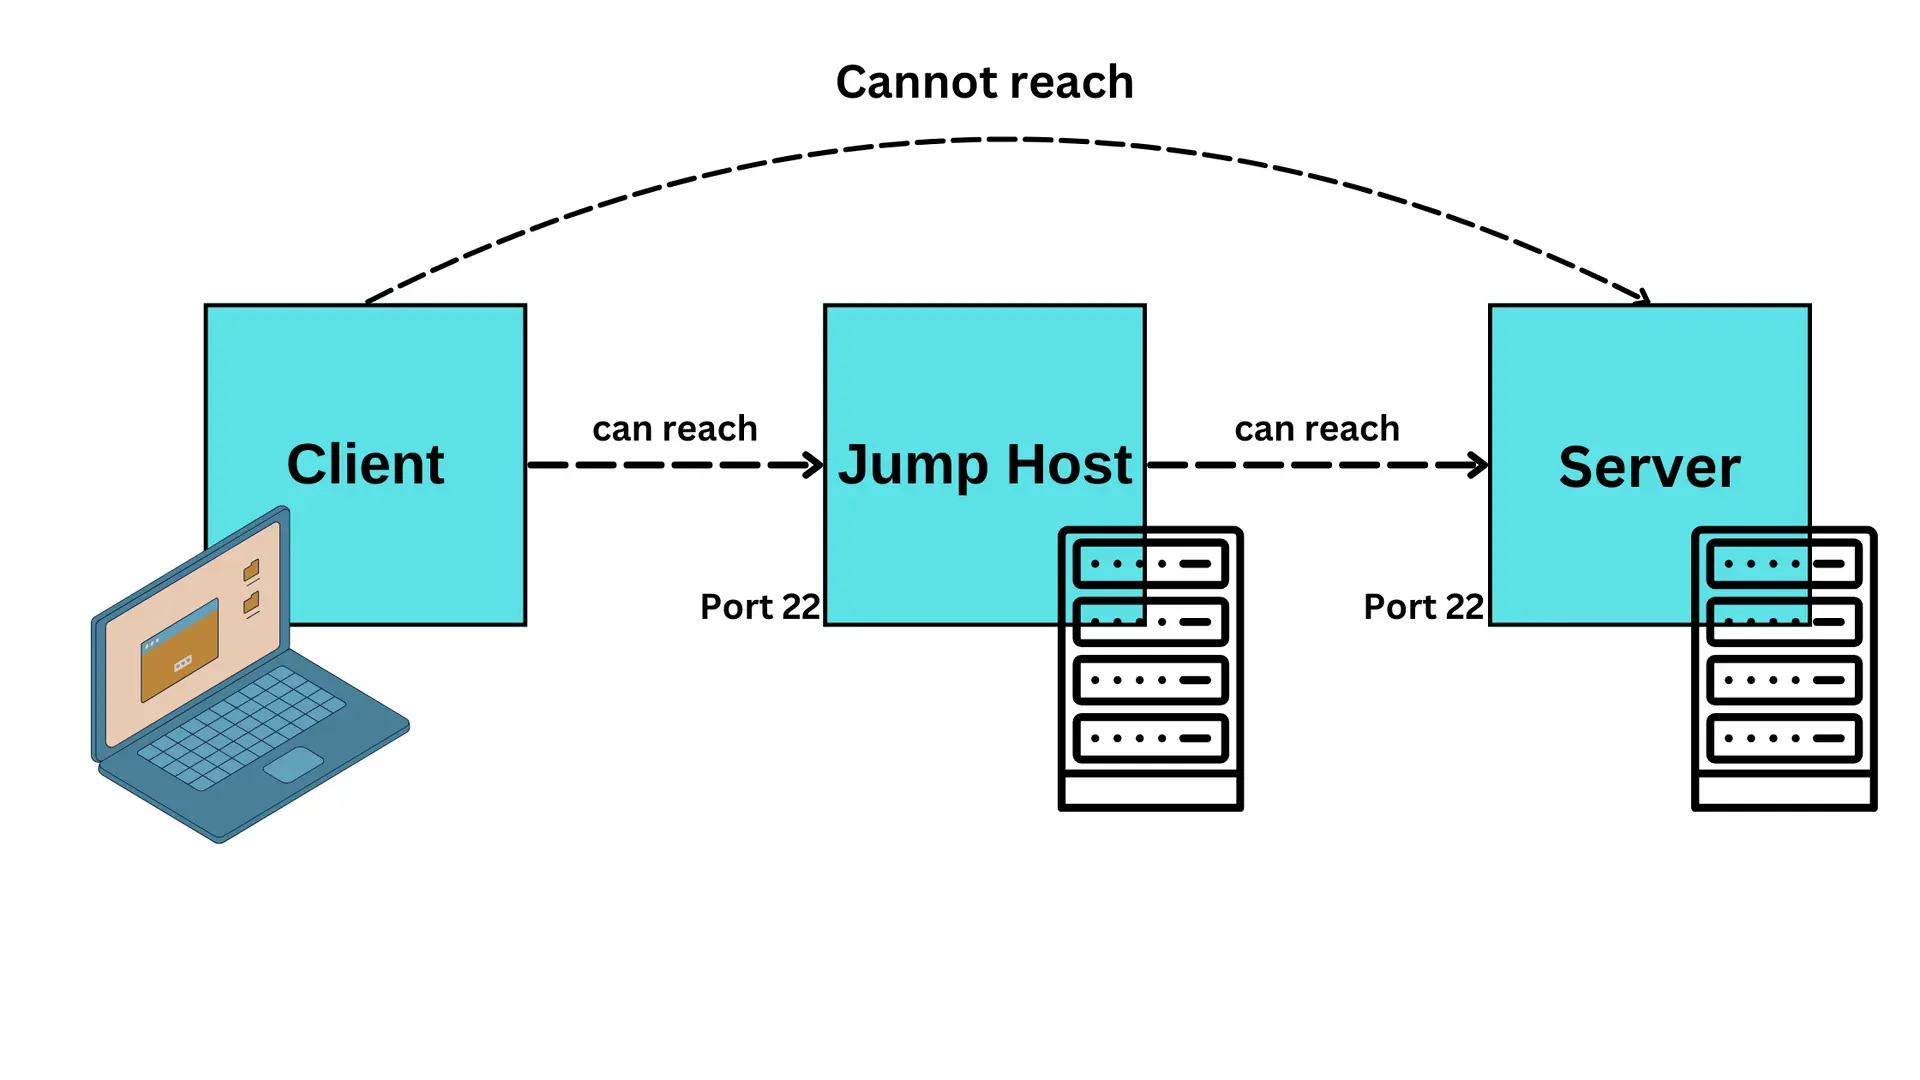
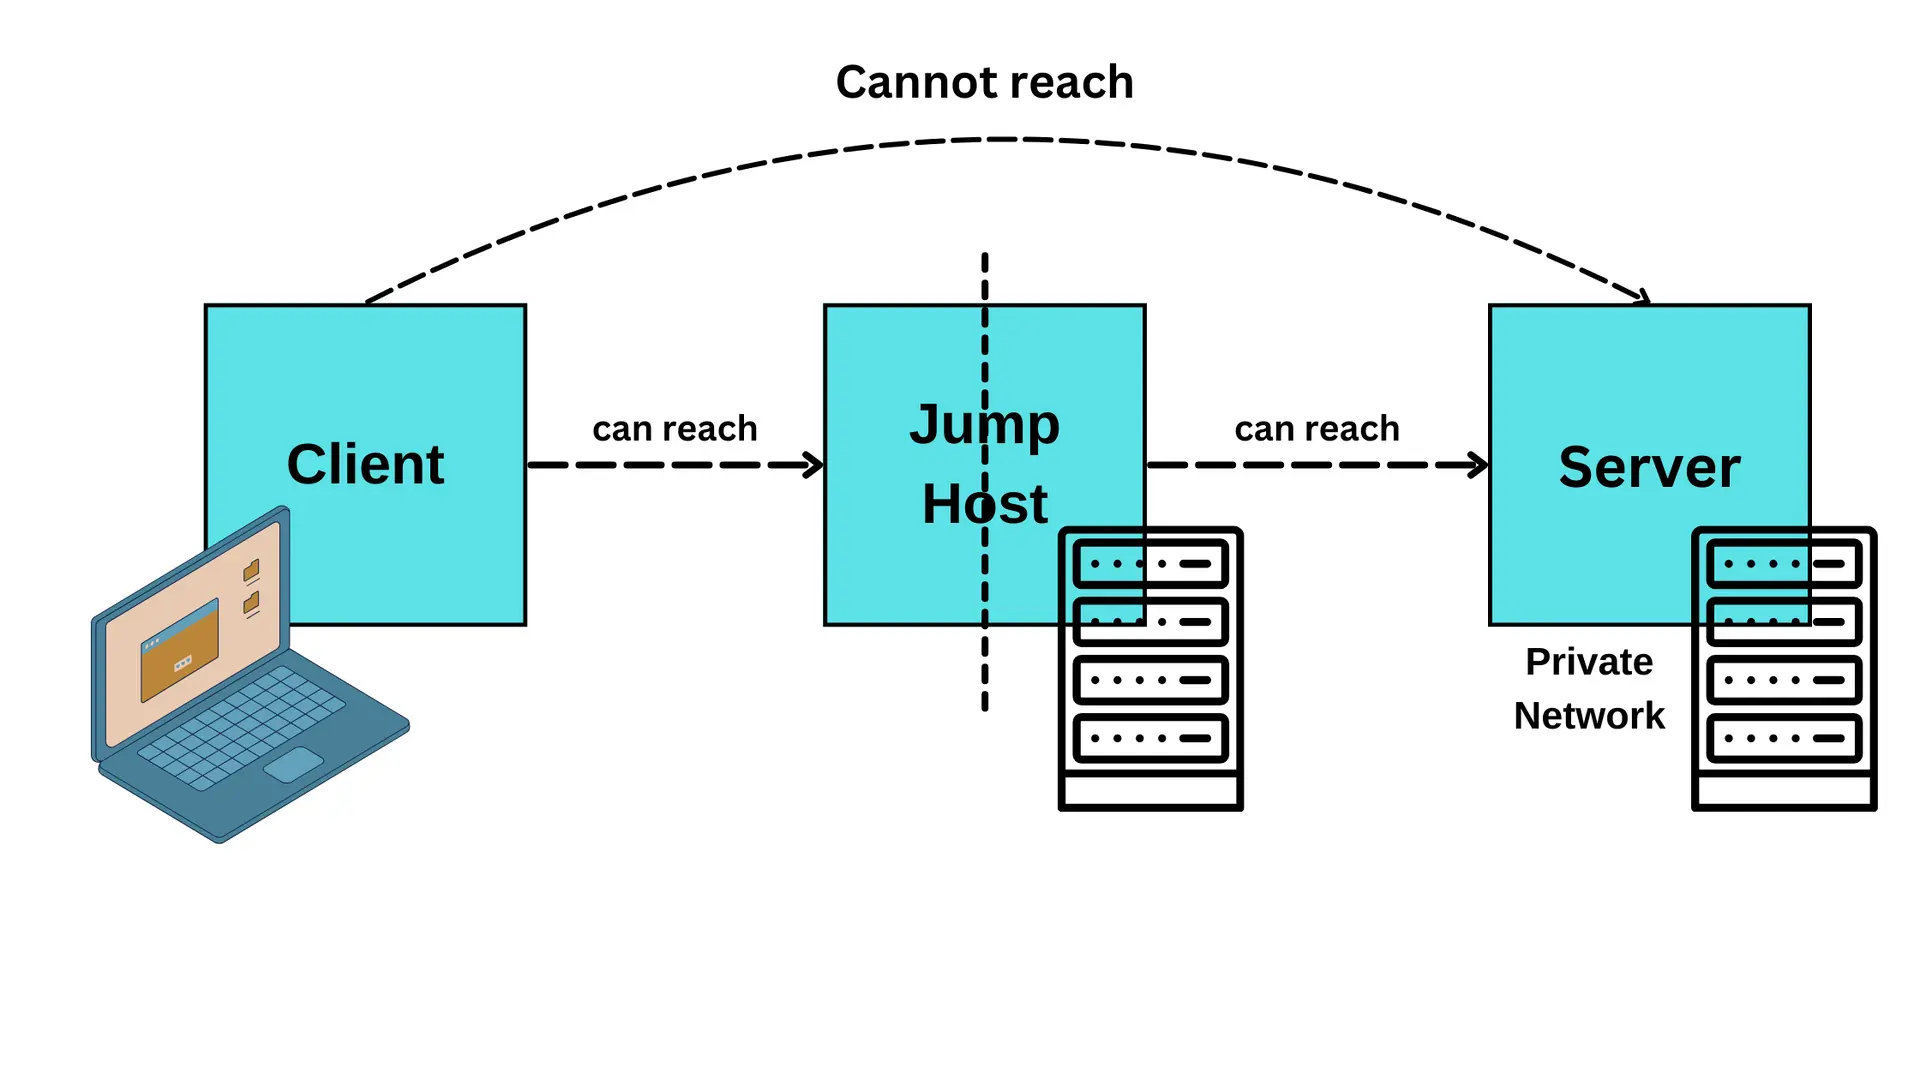
add new image and fix bug

diff --git a/content/blog/securely_accessing_remote_servers_with_ssh_proxyjump_and_jump_hosts.md b/content/blog/securely_accessing_remote_servers_with_ssh_proxyjump_and_jump_hosts.md
@@ -47,15 +47,15 @@ A Jump Host is an agnostic intermediate system in which network traffic is switc
 
 In the past, Previously, when using a Jump Host, it was necessary to first establish an SSH connection to the Jump Host and then initiate another SSH connection to the target server. This process was often tedious and inefficient, causing frustration for many users. Prior to the introduction of ProxyJump, there was no simple way to specify one or more Jump Hosts in the SSH connection process, requiring complex configurations such as local port forwarding. However, with the release of OpenSSH 7.3, the ProxyJump option was introduced, allowing users to easily specify Jump Hosts directly in the SSH command or configuration file, streamlining the connection process. {{< link href="https://www.openssh.com/txt/release-7.3" >}} Learn more about ProxyJump in the OpenSSH release notes for version 7.3 {{</ link>}}.
 
-{{< image "securely_accessing_remote_servers_with_ssh_proxyjump_and_jump_hosts/ ssh_proxyjump.webp" "SSH ProxyJump" >}}
+{{< image "securely_accessing_remote_servers_with_ssh_proxyjump_and_jump_hosts/ssh_proxyjump.webp" "SSH ProxyJump" >}}
 
 **Basic Syntax**:
 
 ```bash
 ssh -J [user@]jump_host[:port] target_host
-Advantages of Using ProxyJump:
 ```
 
+### Advantages of Using ProxyJump:
 - **Simplicity**: Saves time as compared to having to type more than one command about SSH or has to make specific configurations when the port forwarding is getting used.
 - **Efficiency**: Connects to a single system and creates an end-to-end encrypted channel over a single TCP port thus saving latency and resources.
 - **Flexibility**: Allows for cascading multiple Jump Hosts suitable for complex network structures.
@@ -65,21 +65,21 @@ Advantages of Using ProxyJump:
 
 ### 1. Single Jump Host Access
 
-To access `server.internal.com` through `jump.example.com`, use the following command:
+To access `server.destination.com` through `jump.example.com`, use the following command:
 
 ```bash
-ssh -J user@jump.example.com user@server.internal.com
+ssh -J user@jump.example.com user@server.destination.com
 ```
 {{< image "securely_accessing_remote_servers_with_ssh_proxyjump_and_jump_hosts/single_jump_host_access.webp" "Single Jump Host Access Terminal Pic" >}}
 
-This command tells SSH to first connect to jump.example.com as user and then connect to server.internal.com as user.
+This command tells SSH to first connect to jump.example.com as user and then connect to server.destination.com as user.
 
 ### 2. Multiple Jump Hosts (Chained Access)
 
 In complex environments, you may need to hop through multiple Jump Hosts to reach your target server. For example:
 
 ```bash
-ssh -J user@jump1.example.com,user@jump2.example.com user@server.internal.com
+ssh -J user@jump1.example.com,user@jump2.example.com user@server.destination.com
 ```
 This command chains two Jump Hosts, jump1.example.com and jump2.example.com, before accessing the target server.
 
@@ -129,7 +129,7 @@ As the next steps, hit enter to save the key pair under the default paths (~/.ss
 ### Copying Your Public Key to the Server
 Use the ssh-copy-id command to copy your public key to the remote server:
 ```bash 
-ssh-copy-id user@server.internal.com
+ssh-copy-id user@server.destination.com
 ```
 This adds your public key to the ~/.ssh/authorized_keys file on the server and allowing you to authenticate without a password.
 
@@ -145,12 +145,12 @@ Then, from the Jump Host, copy your key to the target server:
 
 ```bash 
 ssh user@jump.example.com
-ssh-copy-id user@server.internal.com
+ssh-copy-id user@server.destination.com
 ```
 Alternatively, you can copy your public key directly to the target server using:
 
 ```bash 
-ssh -J user@jump.example.com user@server.internal.com 'mkdir -p ~/.ssh && cat >> ~/.ssh/authorized_keys' < ~/.ssh/id_rsa.pub
+ssh -J user@jump.example.com user@server.destination .com 'mkdir -p ~/.ssh && cat >> ~/.ssh/authorized_keys' < ~/.ssh/id_rsa.pub
 ```
 ### SSH Agent Forwarding
 If you cannot copy your SSH key to the target server, you can use SSH agent forwarding. This allows you to authenticate to the target server using your local SSH keys.
@@ -169,8 +169,8 @@ Although ProxyJump simplifies the process of connecting through a Jump Host, the
 ### Using ProxyCommand in SSH Config
 You can set up ProxyCommand in your ~/.ssh/config file:
 ```bash 
-Host internal-server
-    HostName server.internal.com
+Host host_destination 
+    HostName server.destination.com
     User user
     ProxyCommand ssh -W %h:%p user@jump.example.com
 ```
@@ -260,8 +260,8 @@ Although ProxyJump makes Proxy configuration easier, ProxyCommand is more flexib
 
 **Example Using ProxyCommand:**
 ```bash 
-Host internal-server
-    HostName server.internal.com
+Host host_destination
+    HostName server.destination.com
     User user
     ProxyCommand ssh -W %h:%p user@jump.example.com
 ```
@@ -285,7 +285,7 @@ For large scale server environments and each Linux server with unique and intric
 When copying files use tools like scp or rsync with switches like -J for transfer through the jump host securely.
 
 ```bash 
-scp -J user@jump.example.com file.txt user@server.internal.com:/path/to/destination/
+scp -J user@jump.example.com file.txt user@server.destination.com:/path/to/destination/
 ```
 
 ## Conclusion
